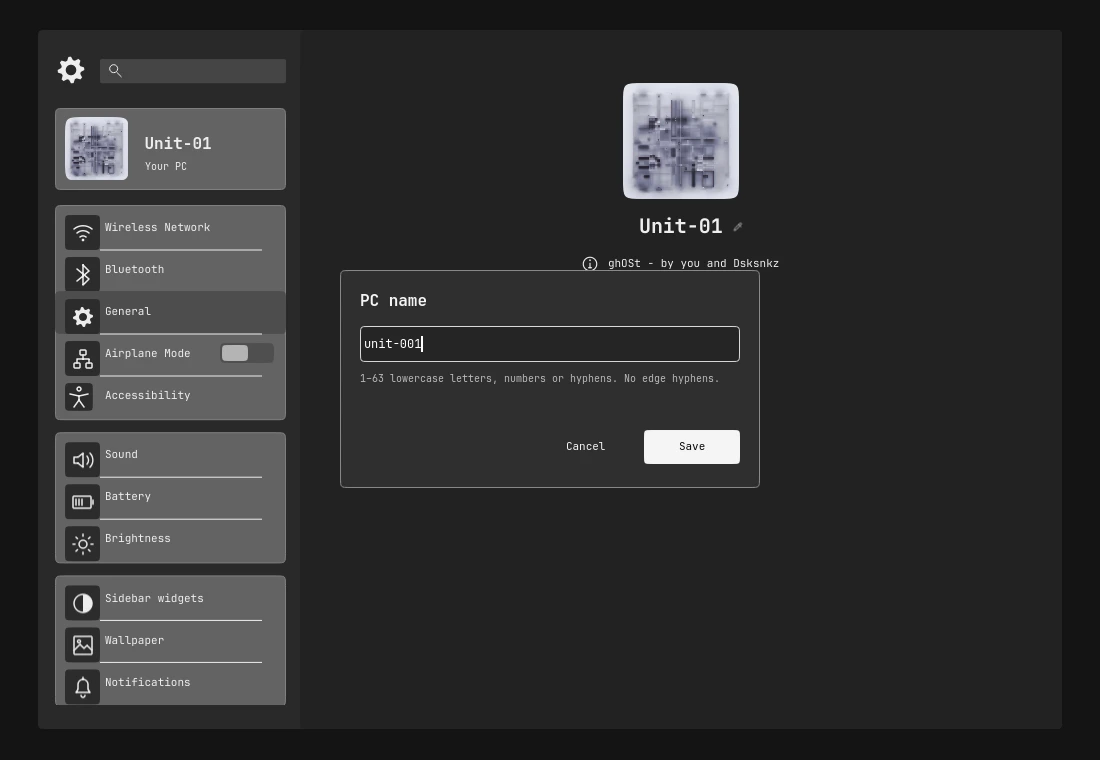
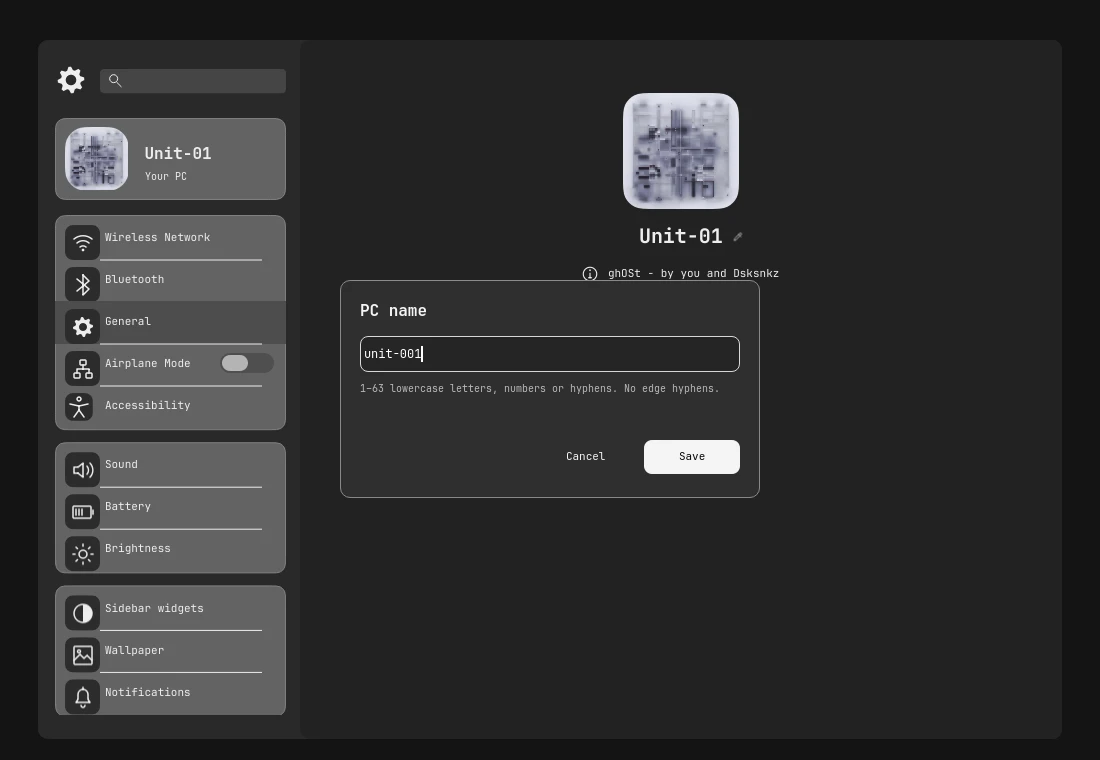
Fix measured Figma corner geometry and clipping across ghOSt

diff --git a/config/quickshell/ghost-bar/SettingsPanel.qml b/config/quickshell/ghost-bar/SettingsPanel.qml
@@ -119,7 +119,7 @@ Item {
         Label { text:parent.title;font.pixelSize:11;color:"#b8b8b8";font.weight:Font.Medium;visible:text!=="" }
     }
     component Card:G2Surface {
-        width:body.width;radius:10;color:"#2f2f2f";border.width:1;border.color:"#3b3b3b"
+        width:body.width;radius:10;smoothing:.6;color:"#2f2f2f";border.width:1;border.color:"#3b3b3b"
     }
     component DeviceRow:Key {
         property string icon:""
@@ -159,8 +159,8 @@ Item {
     Item {
         id:scene;width:1024;height:699;scale:settings.fit;transformOrigin:Item.TopLeft
         x:(settings.width-width*scale)/2;y:(settings.height-height*scale)/2
-        G2Surface { anchors.fill:parent;radius:10;color:"#2c2c2c" }
-        G2Surface { x:262;width:762;height:699;radius:10;color:"#252525" }
+        G2Surface { anchors.fill:parent;radius:10;smoothing:.6;color:"#2c2c2c" }
+        G2Surface { x:262;width:762;height:699;radius:10;smoothing:.6;color:"#252525" }
         SvgIcon { x:17;y:24;width:32;height:32;name:"settings" }
         G2Surface {
             x:62;y:29;width:186;height:24.17;radius:4;color:Qt.rgba(217/255,217/255,217/255,.17)
@@ -172,10 +172,10 @@ Item {
             }
         }
         Key {
-            x:17;y:78;width:231;height:82;radius:10;color:"#6b6b6b";border.width:1;border.color:"#898989"
+            x:17;y:78;width:231;height:82;radius:10;smoothing:.6;color:"#6b6b6b";border.width:1;border.color:"#898989"
             hint:"General";onClicked:settings.choose("general")
             G2Image { x:10;y:9;width:63.95;height:63.95;radius:21;source:settings.portraitSource }
-            Key { x:10;y:9;width:63.95;height:63.95;radius:21;hint:"Choose profile picture";onClicked:settings.requestPortrait("sidebar") }
+            Key { x:10;y:9;width:63.95;height:63.95;radius:21;smoothing:.6;hint:"Choose profile picture";onClicked:settings.requestPortrait("sidebar") }
             Label { x:89.52;y:25.1;width:133;height:22.14;text:settings.displayHost;font.family:Theme.textFont;font.pixelSize:16;font.weight:Font.Bold;color:"#ffffff" }
             Label { x:90.06;y:51.59;width:122.91;height:12.9;text:"Your PC";font.family:Theme.textFont;font.pixelSize:10;color:"#ffffff" }
         }
@@ -190,7 +190,7 @@ Item {
                     model:settings.filteredGroups
                     G2Surface {
                         required property var modelData
-                        width:231;height:modelData.length*42+5.2;radius:10;color:"#6b6b6b";border.width:1;border.color:"#898989"
+                        width:231;height:modelData.length*42+5.2;radius:10;smoothing:.6;color:"#6b6b6b";border.width:1;border.color:"#898989"
                         Column {
                             width:231;spacing:0
                             Repeater {
@@ -201,8 +201,8 @@ Item {
                                     width:231;height:42;radius:10
                                     hint:modelData.name;color:"transparent"
                                     onClicked:settings.choose(modelData.id)
-                                    G2Surface { y:2;width:231;height:43;radius:10;color:"#535353";visible:settings.page===modelData.id }
-                                    G2Surface { x:10;y:10;width:modelData.id==="accessibility"?27.83:35;height:width;radius:8;color:"#2f2f2f";SvgIcon { anchors.centerIn:parent;width:24;height:24;name:modelData.icon } }
+                                    G2Surface { y:2;width:231;height:43;radius:0;color:"#535353";visible:settings.page===modelData.id }
+                                    G2Surface { x:10;y:10;width:modelData.id==="accessibility"?27.83:35;height:width;radius:8;smoothing:.6;color:"#2f2f2f";SvgIcon { anchors.centerIn:parent;width:24;height:24;name:modelData.icon } }
                                     Label { x:50;y:15;width:modelData.id==="airplane"?112:165.93;height:18;text:modelData.name;font.pixelSize:11;color:"#ffffff" }
                                     G2Surface { x:45;y:44.5;width:162;height:1;color:"#ffffff";visible:index<parent.parent.parent.modelData.length-1 }
                                     SettingsToggle { visible:modelData.id==="airplane";x:165;y:12;checked:!Networking.wifiEnabled&&!Desk.adapter?.enabled;hint:"Airplane Mode";onToggled:settings.toggleAirplane() }
@@ -239,7 +239,7 @@ Item {
         Item {
             width:body.width;height:390
             G2Image { x:287;y:0;width:116;height:116;radius:21;source:settings.portraitSource }
-            Key { x:287;y:0;width:116;height:116;radius:21;hint:"Choose profile picture";onClicked:settings.requestPortrait("general") }
+            Key { x:287;y:0;width:116;height:116;radius:21;smoothing:.6;hint:"Choose profile picture";onClicked:settings.requestPortrait("general") }
             Label { x:303;y:130;width:96;height:28;text:settings.displayHost;font.family:Theme.textFont;font.pixelSize:20;font.weight:Font.Bold;color:"#ffffff" }
             Key { x:389.5;y:131.5;width:26;height:26;radius:8;hint:"Rename PC";onClicked:settings.editName();SvgIcon { anchors.centerIn:parent;width:11;height:11;name:"edit" } }
             Key { x:245;y:172;width:199;height:18;hint:"System information";onClicked:settings.choose("about")

diff --git a/config/quickshell/ghost-bar/G2Surface.qml b/config/quickshell/ghost-bar/G2Surface.qml
@@ -1,10 +1,12 @@
 import QtQuick
 import QtQuick.Shapes as Shapes
+import "Corners.js" as Corners
 
 Item {
     id: surface
     property color color: "transparent"
     property real radius: 0
+    property real smoothing: 0
     property Gradient gradient: null
     component BorderStyle: QtObject { property color color: "transparent"; property real width: 0 }
     property BorderStyle border: BorderStyle {}
@@ -18,25 +20,18 @@ Item {
     Component.onCompleted: syncGradient()
     readonly property real inset: Math.max(0,border.width)/2
     readonly property real r: Math.max(0,Math.min(radius-inset,(width-2*inset)/2,(height-2*inset)/2))
-    // Coincident corner controls give zero curvature at both straight joins.
+    // Match Figma's radius AND smoothing, rather than substituting a squircle.
     Shapes.Shape {
-        anchors.fill: parent
         preferredRendererType: Shapes.Shape.CurveRenderer
         Shapes.ShapePath {
             strokeColor: surface.border.color
             strokeWidth: surface.border.width>0 ? surface.border.width : -1
             fillColor: surface.color
             fillGradient: surface.gradient ? shading : null
-            startX: surface.inset+surface.r; startY: surface.inset
-            PathLine { x:surface.width-surface.inset-surface.r; y:surface.inset }
-            PathCubic { x:surface.width-surface.inset; y:surface.inset+surface.r; control1X:surface.width-surface.inset; control1Y:surface.inset; control2X:control1X; control2Y:control1Y }
-            PathLine { x:surface.width-surface.inset; y:surface.height-surface.inset-surface.r }
-            PathCubic { x:surface.width-surface.inset-surface.r; y:surface.height-surface.inset; control1X:surface.width-surface.inset; control1Y:surface.height-surface.inset; control2X:control1X; control2Y:control1Y }
-            PathLine { x:surface.inset+surface.r; y:surface.height-surface.inset }
-            PathCubic { x:surface.inset; y:surface.height-surface.inset-surface.r; control1X:surface.inset; control1Y:surface.height-surface.inset; control2X:control1X; control2Y:control1Y }
-            PathLine { x:surface.inset; y:surface.inset+surface.r }
-            PathCubic { x:surface.inset+surface.r; y:surface.inset; control1X:surface.inset; control1Y:surface.inset; control2X:control1X; control2Y:control1Y }
+            PathSvg { path: Corners.svg(Math.max(0,surface.width-2*surface.inset),Math.max(0,surface.height-2*surface.inset),surface.r,surface.smoothing) }
         }
+        x:surface.inset; y:surface.inset
+        width:surface.width-2*surface.inset; height:surface.height-2*surface.inset
     }
     Shapes.LinearGradient {
         id: shading

diff --git a/config/quickshell/ghost-bar/Corners.js b/config/quickshell/ghost-bar/Corners.js
@@ -1,0 +1,53 @@
+.pragma library
+
+// Radius and smoothing are separate Figma measurements. The previous single
+// cubic used the rectangle vertex twice, making a 15px corner look nearly square.
+// Parameter equations adapted from figma-squircle (MIT), Tien Pham, 2021.
+// See docs/licenses/figma-squircle.txt and docs/changes/2026-10-04-corners.md.
+function geometry(width, height, radius, smoothing) {
+    const budget = Math.max(0, Math.min(width, height) / 2);
+    const r = Math.max(0, Math.min(radius, budget));
+    const s = r ? Math.max(0, Math.min(smoothing, 1, budget / r - 1)) : 0;
+    const p = r * (1 + s), beta = Math.PI * s / 4;
+    const length = Math.sin(Math.PI * (1 - s) / 4) * r * Math.SQRT2;
+    const c = r * Math.tan(beta / 2) * Math.cos(beta), d = c * Math.tan(beta);
+    const b = (p - length - c - d) / 3, a = 2 * b;
+    const k = 4 / 3 * Math.tan(Math.PI * (1 - s) / 8);
+    const local = [
+        [-p + a, 0, -p + a + b, 0, -length - d, d],
+        [-length-d+k*r*Math.cos(beta), d+k*r*Math.sin(beta),
+         -d-k*r*Math.sin(beta), d+length-k*r*Math.cos(beta), -d, d+length],
+        [0, d+length+c, 0, d+length+b+c, 0, p]
+    ];
+    const origins = [[width,0],[width,height],[0,height],[0,0]];
+    function point(x,y,turn) {
+        const o = origins[turn];
+        if (turn === 1) return [o[0]-y,o[1]+x];
+        if (turn === 2) return [o[0]-x,o[1]-y];
+        if (turn === 3) return [o[0]+y,o[1]-x];
+        return [o[0]+x,o[1]+y];
+    }
+    const commands = [['M',width-p,0]];
+    for (let turn=0;turn<4;turn++) {
+        if (turn) commands.push(['L'].concat(point(-p,0,turn)));
+        for (const curve of local) {
+            let values=['C'];
+            for(let i=0;i<6;i+=2) values=values.concat(point(curve[i],curve[i+1],turn));
+            commands.push(values);
+        }
+    }
+    commands.push(['Z']);
+    return {radius:r,smoothing:s,reach:p,commands:commands};
+}
+function svg(width,height,radius,smoothing) {
+    return geometry(width,height,radius,smoothing).commands.map(c=>c.join(' ')).join(' ');
+}
+function trace(context,width,height,radius,smoothing) {
+    context.beginPath();
+    for(const c of geometry(width,height,radius,smoothing).commands) {
+        if(c[0]==='M') context.moveTo(c[1],c[2]);
+        else if(c[0]==='L') context.lineTo(c[1],c[2]);
+        else if(c[0]==='C') context.bezierCurveTo(c[1],c[2],c[3],c[4],c[5],c[6]);
+        else context.closePath();
+    }
+}

diff --git a/site/index.html b/site/index.html
@@ -39,7 +39,7 @@
 <details><summary>Settings pages</summary><nav id="settings-nav" aria-label="Settings preview pages"></nav></details>
 
 <figure data-view="calendar"><div class="surface-stage"><img id="surface" src="assets/calendar-frame.webp" width="1920" height="1080" alt="ghOSt 733 by 310 calendar frame with sample storm weather and performance values on the Figma reference background"></div><figcaption><span id="caption" aria-live="polite">Calendar · sample storm and performance readings</span><a id="fullsize" href="assets/calendar-frame.webp" target="_blank" rel="noopener">OPEN FULL IMAGE ↗</a></figcaption></figure>
-<section class="notes"><div><h2>State</h2><p>Verified rail, sidebar, calendar and Settings are deployed on the owner's desktop by request. These actual Quickshell captures use labeled samples, not a live remote feed.</p></div><div><h2>Changes</h2><p>Corrected corners, type, grouped Settings, picture/name flows, sidebar motion, rail dividers and cylindrical workspace wheel. Notification history has its own standard-protocol backend without replacing an existing server. Further Figma matching and independent lock remain pending.</p><a href="https://github.com/dsksnkz/ghOSt/blob/main/docs/changes/2026-10-04-desktop.md">CHANGES ↗</a> · <a href="https://github.com/dsksnkz/ghOSt/blob/main/docs/PROGRESS.md">PROGRESS ↗</a></div></section>
+<section class="notes"><div><h2>State</h2><p>Verified rail, sidebar, calendar and Settings are deployed on the owner's desktop by request. These actual Quickshell captures use labeled samples, not a live remote feed.</p></div><div><h2>Changes</h2><p>Corrected Figma radius and smoothing geometry, portrait clipping and slider outlines. Regenerated rail, sidebar, calendar and Settings output. Notification history preserves an existing server. Further Figma matching and independent lock remain pending.</p><a href="https://github.com/dsksnkz/ghOSt/blob/main/docs/changes/2026-10-04-corners.md">CHANGES ↗</a> · <a href="https://github.com/dsksnkz/ghOSt/blob/main/docs/PROGRESS.md">PROGRESS ↗</a></div></section>
 
   </main><footer>ghOSt <span>Graphical Hyprland Operating System Toolkit</span></footer>
 

diff --git a/tests/test_corners.js b/tests/test_corners.js
@@ -1,0 +1,22 @@
+const fs=require('fs'),vm=require('vm'),assert=require('assert');
+const code=fs.readFileSync('config/quickshell/ghost-bar/Corners.js','utf8').replace('.pragma library','');
+const context=vm.createContext({Math});vm.runInContext(code,context);
+for(const [w,h,r,s] of [[144,222,15,0],[134,213,11,0],[116,116,21,.6],[63.95,63.95,21,.6],[231,215.2,10,0],[35,35,8,0],[24,24,15,0],[1920,46,7,0],[1,36,0,0]]) {
+    const g=context.geometry(w,h,r,s);
+    assert(g.radius<=Math.min(w,h)/2 && g.reach<=Math.min(w,h)/2);
+    for(const c of g.commands)for(let i=1;i<c.length;i+=2){
+        assert(Number.isFinite(c[i])&&Number.isFinite(c[i+1]));
+        assert(c[i]>=-1e-8&&c[i]<=w+1e-8&&c[i+1]>=-1e-8&&c[i+1]<=h+1e-8);
+    }
+    assert.equal(g.commands.filter(c=>c[0]==='C').length,12);
+    assert.equal(g.commands.at(-1)[0],'Z');
+}
+const circle=context.geometry(144,222,15,0), arc=circle.commands[2];
+// Quarter-circle control offsets, rather than both controls at the vertex.
+assert(Math.abs(arc[1]-(144-15+15*4/3*Math.tan(Math.PI/8)))<1e-8);
+assert(Math.abs(arc[4]-(15-15*4/3*Math.tan(Math.PI/8)))<1e-8);
+const smooth=context.geometry(116,116,21,.6);
+assert(Math.abs(smooth.reach-33.6)<1e-8);
+assert.equal(smooth.smoothing,.6);
+assert(context.geometry(63.95,63.95,21,.6).smoothing<.6);
+console.log('PASS: measured radii, circular geometry, 60% smoothing, bounded short controls and closed symmetric paths');

diff --git a/config/quickshell/ghost-bar/G2Image.qml b/config/quickshell/ghost-bar/G2Image.qml
@@ -1,25 +1,24 @@
 import QtQuick
+import "Corners.js" as Corners
 
 Canvas {
     id: image
     property url source
     property real radius: 0
+    property real smoothing: .6
     Image { id:picture;visible:false;source:image.source;onStatusChanged:if(status===Image.Ready)image.requestPaint() }
     onSourceChanged: { if(source.toString())loadImage(source);requestPaint(); }
     onImageLoaded: requestPaint()
     onWidthChanged: requestPaint()
     onHeightChanged: requestPaint()
     onRadiusChanged: requestPaint()
+    onSmoothingChanged: requestPaint()
     Component.onCompleted: if(source.toString())loadImage(source)
     onPaint: {
         const c=getContext("2d"),r=Math.max(0,Math.min(radius,width/2,height/2));
         c.reset();c.clearRect(0,0,width,height);
         if(!isImageLoaded(source))return;
-        c.beginPath();c.moveTo(r,0);c.lineTo(width-r,0);
-        c.bezierCurveTo(width,0,width,0,width,r);c.lineTo(width,height-r);
-        c.bezierCurveTo(width,height,width,height,width-r,height);c.lineTo(r,height);
-        c.bezierCurveTo(0,height,0,height,0,height-r);c.lineTo(0,r);
-        c.bezierCurveTo(0,0,0,0,r,0);c.closePath();c.clip();
+        Corners.trace(c,width,height,r,smoothing);c.clip();
         // PreserveAspectCrop, matching Figma's FILL image transform.
         const iw=picture.sourceSize.width,ih=picture.sourceSize.height;
         if(!iw||!ih)return;

diff --git a/config/quickshell/ghost-bar/LiquidMeter.qml b/config/quickshell/ghost-bar/LiquidMeter.qml
@@ -1,4 +1,5 @@
 import QtQuick
+import "Corners.js" as Corners
 
 Item {
     id: meter
@@ -43,11 +44,8 @@ Item {
             const c = getContext("2d"), w = width, h = height, side = 87, r = 15, half = side/2;
             c.reset(); c.clearRect(0, 0, w, h);
             c.save(); c.translate(w/2,h/2); c.rotate(Math.PI/4);
-            c.beginPath();
-            c.moveTo(-half+r,-half); c.lineTo(half-r,-half); c.bezierCurveTo(half,-half,half,-half,half,-half+r);
-            c.lineTo(half,half-r); c.bezierCurveTo(half,half,half,half,half-r,half);
-            c.lineTo(-half+r,half); c.bezierCurveTo(-half,half,-half,half,-half,half-r);
-            c.lineTo(-half,-half+r); c.bezierCurveTo(-half,-half,-half,-half,-half+r,-half); c.closePath();
+            c.translate(-half,-half);
+            Corners.trace(c,side,side,r,0);
             c.restore();
             c.fillStyle = hover.hovered ? "#3b3b3b" : "#313131"; c.fill();
             if (meter.activeFocus) { c.strokeStyle = "#efefef"; c.lineWidth = 2; c.stroke(); }

diff --git a/config/quickshell/ghost-bar/SidebarFigmaBody.qml b/config/quickshell/ghost-bar/SidebarFigmaBody.qml
@@ -4,6 +4,7 @@ import Quickshell
 import Quickshell.Io
 import Quickshell.Networking
 import Quickshell.Bluetooth
+import "Corners.js" as Corners
 
 Item {
     id: sidebar
@@ -63,8 +64,7 @@ Item {
         onPaint: {
             const c=getContext("2d"), w=width-1, h=height-1, r=Math.min(sidebar.itemRadius-.5,w/2,h/2);
             c.reset(); c.clearRect(0,0,width,height); c.translate(.5,.5);
-            c.beginPath(); c.moveTo(r,0); c.lineTo(w-r,0); c.bezierCurveTo(w,0,w,0,w,r);
-            c.bezierCurveTo(w,h,w,h,w-r,h); c.lineTo(r,h); c.bezierCurveTo(0,h,0,h,0,r); c.bezierCurveTo(0,0,0,0,r,0); c.closePath();
+            Corners.trace(c,w,h,r,0);
             c.clip(); c.fillStyle="#cecece"; c.fillRect(0,0,w*fraction,h);
         }
     }

diff --git a/config/quickshell/ghost-bar/Key.qml b/config/quickshell/ghost-bar/Key.qml
@@ -26,7 +26,7 @@ G2Surface {
     Behavior on color { ColorAnimation { duration: Theme.fast } }
     Behavior on scale { NumberAnimation { duration: Theme.reducedMotion ? 0 : Theme.fast; easing.type: Easing.OutCubic } }
     G2Surface {
-        anchors.fill:parent; radius:root.radius
+        anchors.fill:parent; radius:root.radius; smoothing:root.smoothing
         color:root.color.r>.5 ? "#111111" : "#ffffff"
         opacity:mouse.pressed ? .16 : mouse.containsMouse ? .09 : 0
         Behavior on opacity { NumberAnimation { duration:Theme.reducedMotion?0:Theme.fast } }

diff --git a/scripts/verify_corner_render.py b/scripts/verify_corner_render.py
@@ -1,0 +1,19 @@
+#!/usr/bin/env python3
+"""Inspect actual fixture pixels, not merely QML radius-property values."""
+from pathlib import Path
+import sys
+from PIL import Image
+
+root = Path(sys.argv[1])
+with Image.open(root / "sidebar-frame.png") as source:
+    image = source.convert("RGB")
+    assert image.getpixel((31, 269)) == (24, 24, 24), "15px WLAN housing corner remains too square"
+    assert image.getpixel((192, 269)) == (24, 24, 24), "15px Bluetooth housing corner remains too square"
+    assert image.getpixel((50, 270)) != (21, 21, 21), "WLAN cap failed to paint"
+    assert image.getpixel((30, 524)) != (21, 21, 21), "Slider fill lost its straight side"
+with Image.open(root / "settings-general.png") as source:
+    image = source.convert("RGB")
+    assert image.getpixel((1113, 269)) == (37, 37, 37), "21px portrait clipping remains too square"
+    assert image.getpixel((1167, 323)) != (37, 37, 37), "Portrait failed to paint"
+    assert image.getpixel((525, 213)) == (21, 21, 21), "10px Settings frame corner failed"
+print("PASS: actual WLAN/Bluetooth15px corners, slider fill, portrait21px clipping and Settings frame10px pixels")

diff --git a/docs/changes/2026-10-04-corners.md b/docs/changes/2026-10-04-corners.md
@@ -1,0 +1,31 @@
+# 2026-10-04 · Figma corner geometry
+
+Corrected and deployed rail, sidebar, calendar and Settings corners. The previous shared renderer used a single cubic with both controls at the rectangle vertex: correct radius properties consequently looked almost square. Slider clipping also omitted vertical straight segments. This pass fixes outlines and image/fill clips, not merely numeric properties.
+
+## Measurements and files
+
+Editable Figma: Bluetooth housing `30:62` is144×222/radius15/smoothing0%; well `30:63` is134×213/radius11/smoothing0%; Settings portrait `36:371` is116×116/radius21/smoothing60%; main frame `36:269` is1024×699/radius10/smoothing60%. Navigation group `36:312` reports10/0% at group level, not proof of each painted child's smoothing. Grey Settings housings follow the user's explicit G2 instruction. Selected navigation `36:369` is square. No design changes retained.
+
+- `Corners.js`, `G2Surface.qml`: bounded radius/smoothing paths, circular arcs between transition curves; circular default and explicit60% Settings smoothing. MIT-derived equations attributed in `docs/licenses/figma-squircle.txt`; no package installed.
+- `G2Image.qml`, `SettingsPanel.qml`: matching21px/60% portrait clips/click outlines;10px/60% main/grey frames,8px/60% icon wells; square navigation selection.
+- `Key.qml`: feedback matches the underlying corner geometry.
+- `LiquidMeter.qml`, `SidebarFigmaBody.qml`: shared15px meter clips and repaired slider paths;15/11px cards and7px main frames retained. Radius is bounded by half the shorter side:24px buttons cannot support an unbounded15px corner.
+- `tests/test_corners.js`, `scripts/verify_corner_render.py`: geometry and actual rendered-pixel regressions.
+
+## Verification and desktop
+
+JS geometry and actual corner-pixel assertions pass: WLAN/Bluetooth cutouts, portrait21px clip, Settings10px frame and slider fill.45 Python tests pass. All14 Settings pages plus portrait/name/search, sidebar/rail polish and calendar motion checks pass. Public images use labeled QML sample data, not private SSIDs/chats.
+
[1 lines of base64/hex data omitted]
+
+## Output and recovery
+
+[Sidebar](../../site/assets/sidebar-frame.webp) · [Settings](../../site/assets/settings-general.webp) · [Calendar](../../site/assets/calendar-frame.webp) · [Composition](../../site/assets/desktop-frame.webp) · [Power](../../site/assets/power-frame.webp) · [Pages](https://dsksnkz.github.io/ghOSt/).
+
+All17 Settings page/flow captures and five rail/sidebar/calendar/composition/power captures regenerated. Audio, icon and CPU/GPU/clock preview captures refreshed too; inspected with sample values and no actions executed. Wheel motion unchanged. Project/live snapshots: `.local/backups/2026-10-04-corners-vJrgwf/`; docs/site originals in `docs-site/`. Rollback: restore `live/` files to the named ghOSt profile, restart only ghOSt.
+
+GitHub/local prompt/design blobs remain`f1c5f9ed4c10315c5f99f4ee83fcf28e9a8abb8d` / `9cc34c7e555a0cbfbff777d194a13ac3b799e6fe`. User prompt untouched. Corner-renderer correction completed; full prompt remains pending for raster/image transforms, physical/multi-monitor parity, independent lock, embedded EQ, terminal reference and broader migration. No100% parity/zero-bug claim.
+
+## Publication
+
+Deployment verification will be recorded after the authorized main/Pages publication.

diff --git a/docs/design.md b/docs/design.md
@@ -19,7 +19,7 @@ The user's twelve reference photographs are the visual authority for ghOSt. Orig
 | Image_20260928150907_10_3.jpg | Simple geometric controls, active inversion, exact alignment. |
 | Image_20260928150905_9_3.jpg | Machined housing, inset controls, precision borders. |
 
-Current direction (2026-10-03): implement the supplied Figma, a clean monochrome HUD with real instrumentation. New controls use hover color only, never hover scaling; press feedback is allowed. Rail tooltips are disabled while accessible names remain. Main rail/calendar/sidebar radii are 7 px, continuous cubic G2 corners; inset radius is max(0, outer radius minus padding). Older-rice appearances may be inspected only as visual references under the user's latest exception; they must not supply runtime code, helpers or imports.
+Current direction: implement supplied Figma, a clean monochrome HUD with real instrumentation. Hover changes color, never scale; press feedback is allowed. Rail tooltips disabled, accessible names retained. Main rail/calendar/sidebar radii7px; inset radius=max(0, outer radius minus padding). Radius and smoothing are separate Figma properties: shared arc/transition geometry replaces the old nearly-square cubic. Measured Bluetooth cards use0%; Settings portraits/main frame use60%, with explicit G2 on grey frames/icon wells. Older-rice appearances may inform finish only under the user's visual exception, never supply runtime code/helpers/imports.
 
 The supplied mainDesigns calendar replaces the radial-only direction: weather left, liquid hardware meters centrally, calendar right. Its current design plane is733 × 310; the later exact-proportions correction superseded the temporary10% widening. The frame reveals downward, followed by subframes in a newly randomized order over1.5 seconds. London is the user-approved weather location. Rain moves and storm lightning pulses occasionally; reduced motion stops both. Never fabricate weather or telemetry.
 
